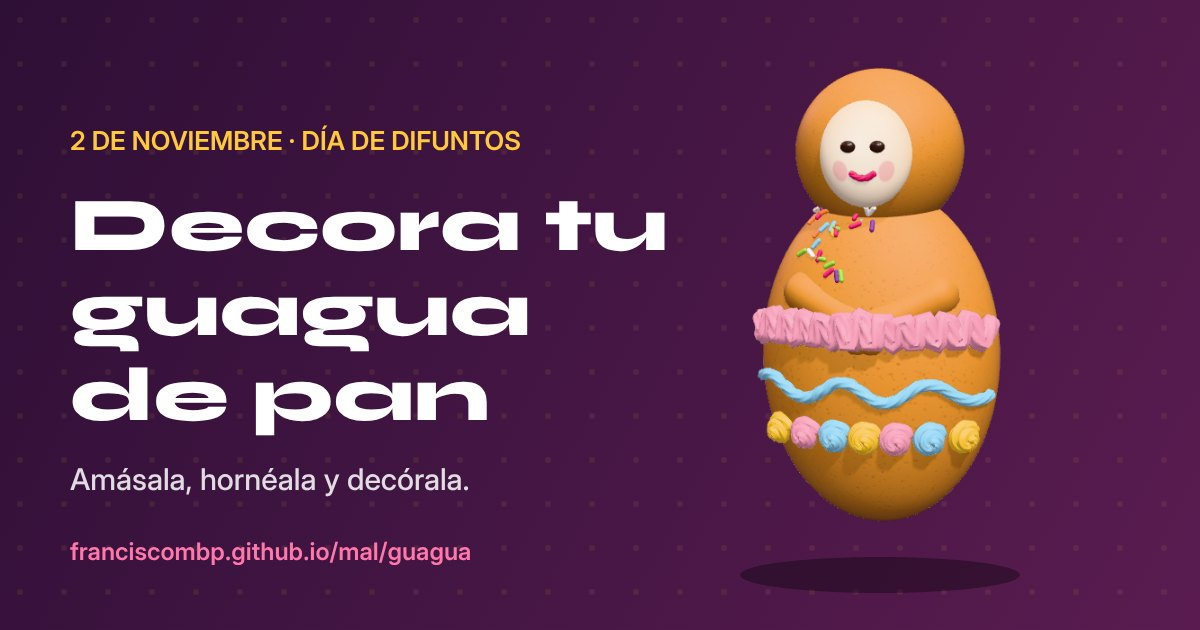
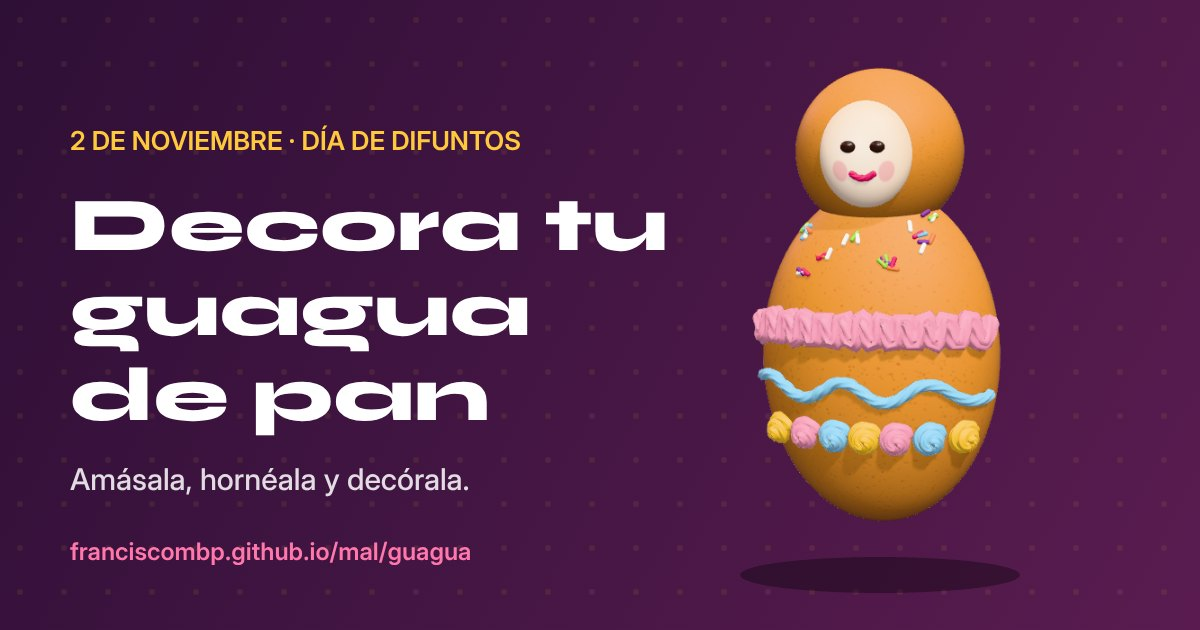
Guagua de pan: el molde de guagua, simple
No todas las guaguas llevan los brazos cruzados. El molde queda en
cuerpo y cabeza; los brazos, quien los quiera, se los amasa con
chorizos. La imagen para compartir sale con la guagua nueva.

Los enlaces de la primera versión se siguen abriendo con brazos,
porque pueden traer crema encima de ellos.

Claude-Session: https://claude.ai/code/session_01JjB27KCfUQihEAAbb6aaHZ

Changed region(s): [[0.6475, 0.3317, 0.8325, 0.6032]]

diff --git a/guagua/guagua.js b/guagua/guagua.js
@@ -108,14 +108,21 @@ function frenteDe(c, s, x, y) {      // la z de la cara de adelante de un elipso
 const CUERPO = { c: V(0, 1.463, 0), s: V(1.042, 1.463, 0.62) };
 const CABEZA = { c: V(0, 3.212, 0.03), s: V(0.72, 0.69, 0.52) };
 
+/* La guagua de la primera versión traía los brazos cruzados; solo se
+   usa para abrir los enlaces de entonces, que pueden tener crema encima. */
+function guaguaConBrazos() {
+  const brazos = [[[182, 372], [336, 452]], [[418, 372], [264, 452]]].map(([a, b]) => {
+    const A = G(a[0], a[1]), B = G(b[0], b[1]);
+    A.z = frenteDe(CUERPO.c, CUERPO.s, A.x, A.y) - 0.05; B.z = frenteDe(CUERPO.c, CUERPO.s, B.x, B.y) - 0.05;
+    return chorizo(30 * SG, [A, B]);
+  });
+  return MOLDES.guagua().concat(brazos);
+}
+
 const MOLDES = {
+  // la guagua simple: cuerpo y cabeza. Los brazos, si los quiere, se los amasa.
   guagua() {
-    const brazos = [[[182, 372], [336, 452]], [[418, 372], [264, 452]]].map(([a, b]) => {
-      const A = G(a[0], a[1]), B = G(b[0], b[1]);
-      A.z = frenteDe(CUERPO.c, CUERPO.s, A.x, A.y) - 0.05; B.z = frenteDe(CUERPO.c, CUERPO.s, B.x, B.y) - 0.05;
-      return chorizo(30 * SG, [A, B]);
-    });
-    return [bolita(CUERPO.c, CUERPO.s), bolita(CABEZA.c, CABEZA.s), ...brazos];
+    return [bolita(CUERPO.c, CUERPO.s), bolita(CABEZA.c, CABEZA.s)];
   },
   caballito() {
     const pata = (a, b, z) => chorizo(30 * SC, [C(a[0], a[1], z), C(b[0], b[1], z)]);
@@ -901,7 +908,7 @@ function deLaPrimeraHornada(d, o) {
     pasa(272, 188); pasa(328, 188); pasa(300, 214);
     for (let i = 0; i < 5; i++) pasa(270 + i * 15, 242 + Math.sin(i / 4 * Math.PI) * 9);
   }
-  return Object.assign({}, d, { v: 3, a: MOLDES[f](), k: 100, o: cara.concat(ops), f });
+  return Object.assign({}, d, { v: 3, a: f === 'guagua' ? guaguaConBrazos() : MOLDES[f](), k: 100, o: cara.concat(ops), f });
 }
 /* Lo que llega por un enlace lo escribió cualquiera: se filtra todo. */
 function sano(d) {
